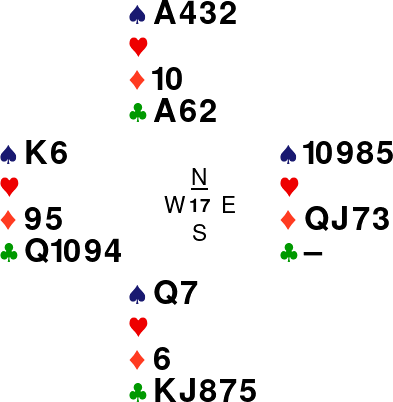
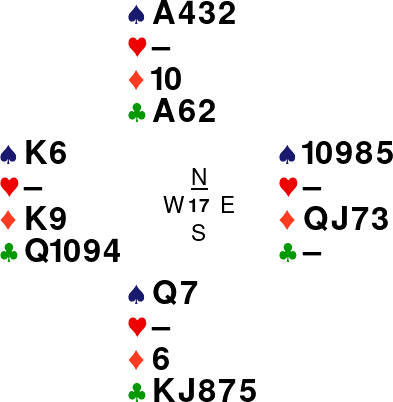
Usual grammar error I overlooked corrected.

diff --git a/content/post/hands/hands.md b/content/post/hands/hands.md
@@ -18,13 +18,15 @@ Let's start _in medias res_:
 {{< /rawhtml >}}
 
 The bidding is not particularly exciting, just a standard Smolen sequence over 1NT.
-The play is reported under the figure, and the situation looks bleak: we already lost 3 tricks and we still have to
-tackle trumps. To bring trumps in with zero losers, we must hope for a original 4-1 break with the stiff J in North. We
-will need to finesse twice, starting with the {{< rawhtml >}} <span style="color:red;">&#9829;</span> {{< /rawhtml>}}Q,
-and then finesse the {{< rawhtml >}} <span style="color:red;">&#9829;</span> {{< /rawhtml>}}9. But even if trumps come
-in, we will be one trick short since we won't be able to ruff a Spade. So we'll need a squeeze, and, since South has to
-have four Hearts for our plan to succeed, North is a favorite to hold Clubs, besides the sure Spade guard. But, still,
-communications are a bit messy and a simple squeeze won't be able to work, so we'll need to go with a trump squeeze. So, while in
+The play is reported under the figure. The situation looks bleak: we already lost 3 tricks and we still have to
+tackle trumps. To bring trumps in with zero losers, we must hope for an original 4-1 break with stiff J in North.
+We'll need to finesse twice, starting with the {{< rawhtml >}} <span style="color:red;">&#9829;</span>{{< /rawhtml>}}Q,
+and then finesse the {{< rawhtml >}} <span style="color:red;">&#9829;</span>{{< /rawhtml>}}9. But even if trumps come
+in, we'll be one trick short since we won't be able to ruff a Spade. So we'll need some other way to find the fateful
+10th trick.A  squeeze looks like a great idea, since, as we need South to
+have four Hearts for our plan to succeed (bringing in trumps), North will be a favorite to hold a Club guard on top of
+the sure Spade guard. But, still,
+communications are a bit messy and a simple squeeze can't be set up, so we'll need to go with a trump squeeze. So, while in
 dummy, we play the  {{< rawhtml >}} <span style="color:red;">&#9829;</span>{{< /rawhtml>}}Q. Imagine that South doesn't
 cover (immaterial if he does) and the J drops. Now we know we can make the contract if North has at least 4 Clubs: we
 cash the  {{< rawhtml >}} <span style="color:OrangeRed;">&diams;</span>{{< /rawhtml>}}A discarding a Club, then we play a
@@ -165,9 +167,18 @@ Now the situations is quite weird, as West did not even suffer to discard the
 Diamond, and I think that with an original holding of 5 Diamonds he might as
 well have thought at least a couple of seconds (I played the hand extremely
 fast on purpose to not let the opponents think in the early tricks). So now I
-decided to go with my read and play East for a 5-3-5-0, playing a Diamond, hoping for the {{< rawhtml >}} <span style="color:OrangeRed;">&diams;</span>{{< /rawhtml>}}K in West, which would mean that the defence
+decided to go with my read and play East for a 5-3-5-0, imagining a layout like this:
+
+{{< rawhtml >}}
+<figure style="text-align:center;">
+<img src="manomiarid1.png" class="toinvert" alt="Hand1">
+</figure>
+{{< /rawhtml >}}
+
+
+Playing a Diamond and hoping for the {{< rawhtml >}} <span style="color:OrangeRed;">&diams;</span>{{< /rawhtml>}}K in West, which would mean that the defence
 cannot both set up a Spade and manage to run Diamonds (as Spades need to be played
-by East and for him to get in on the first round he must block the suit, has is partner is bound to have ), and if that happens, I can throw in West with the Queen of Spades, or, if
+by East and for him to get in on the first round he must block the suit), and if that happens, I can throw in West with the Queen of Spades, or, if
 they unblock the suit and cash it (what happened at the table), the last Diamond squeezes West. If they cash only three Diamonds and then play Spades, I can again endplay West by playing the Q of Spade. A really beautiful hand!
 
 ## Hand 6
@@ -180,8 +191,7 @@ they unblock the suit and cash it (what happened at the table), the last Diamond
 
 This another hand I played during the 7th World Youth Transnational Bridge Championships. This time, as you can see, I doubled a contract and I had to manage to beat it.
 
-After this telling auction, you must defend 3NT Doubled. I led the {{< rawhtml
->}} <span style="color:DarkGreen;">&clubs;</span>{{< /rawhtml>}}Q, West
+After this telling auction, you must defend 3NT Doubled. I led the {{< rawhtml>}} <span style="color:DarkGreen;">&clubs;</span>{{< /rawhtml>}}Q, West
 following, partner playing the {{< rawhtml >}} <span
 style="color:DarkGreen;">&clubs;</span>{{< /rawhtml>}}6 (UDCA attitude I
 thought, turns out, in this situation, is quite a mess what signal should
@@ -205,6 +215,6 @@ Here the complete diagram:
 </figure>
 {{< /rawhtml >}}
 
-Spectacular defence, indeed, but, had I trusted my insight and reasoning at the first opportunity, it would have been even more spectacular (and less riskier!).
+Spectacular defence, indeed, but, had I trusted my insight and reasoning at the first opportunity, it would have been even more spectacular (and less risky!).
 
 That's all for today. Thanks for reading and following me. I'll be back with more Bridge contents soon!
